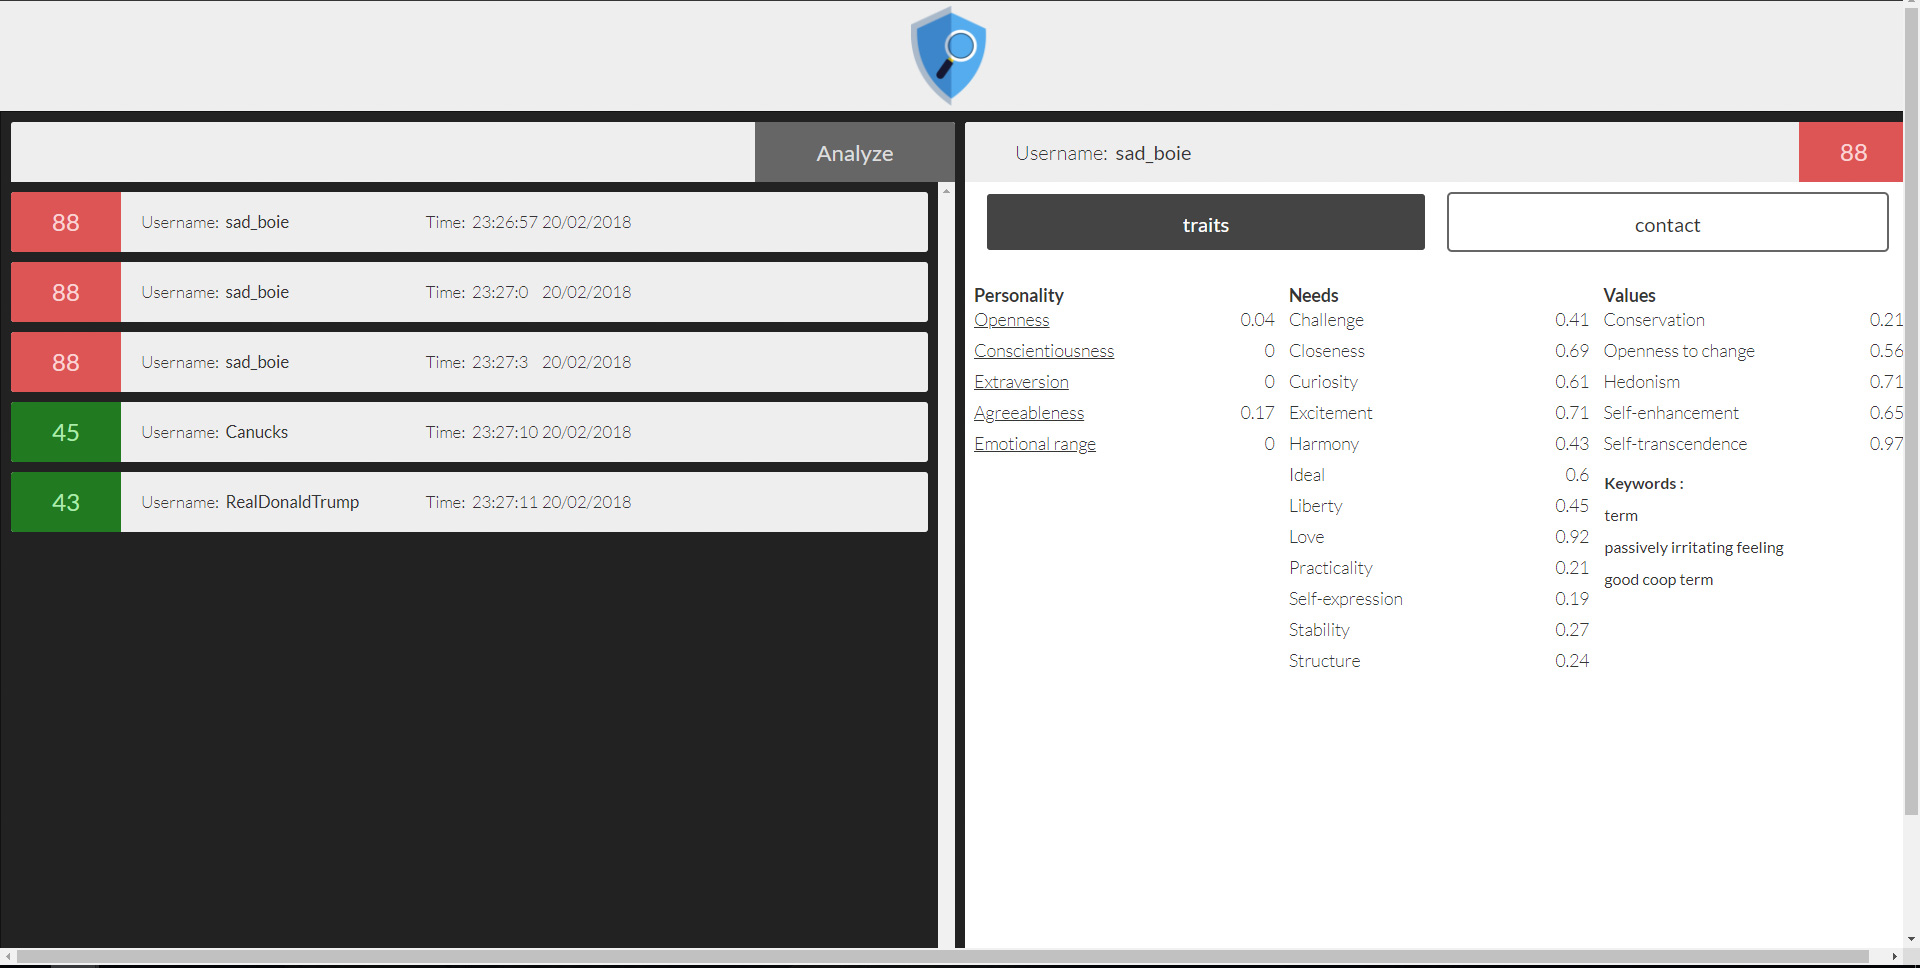
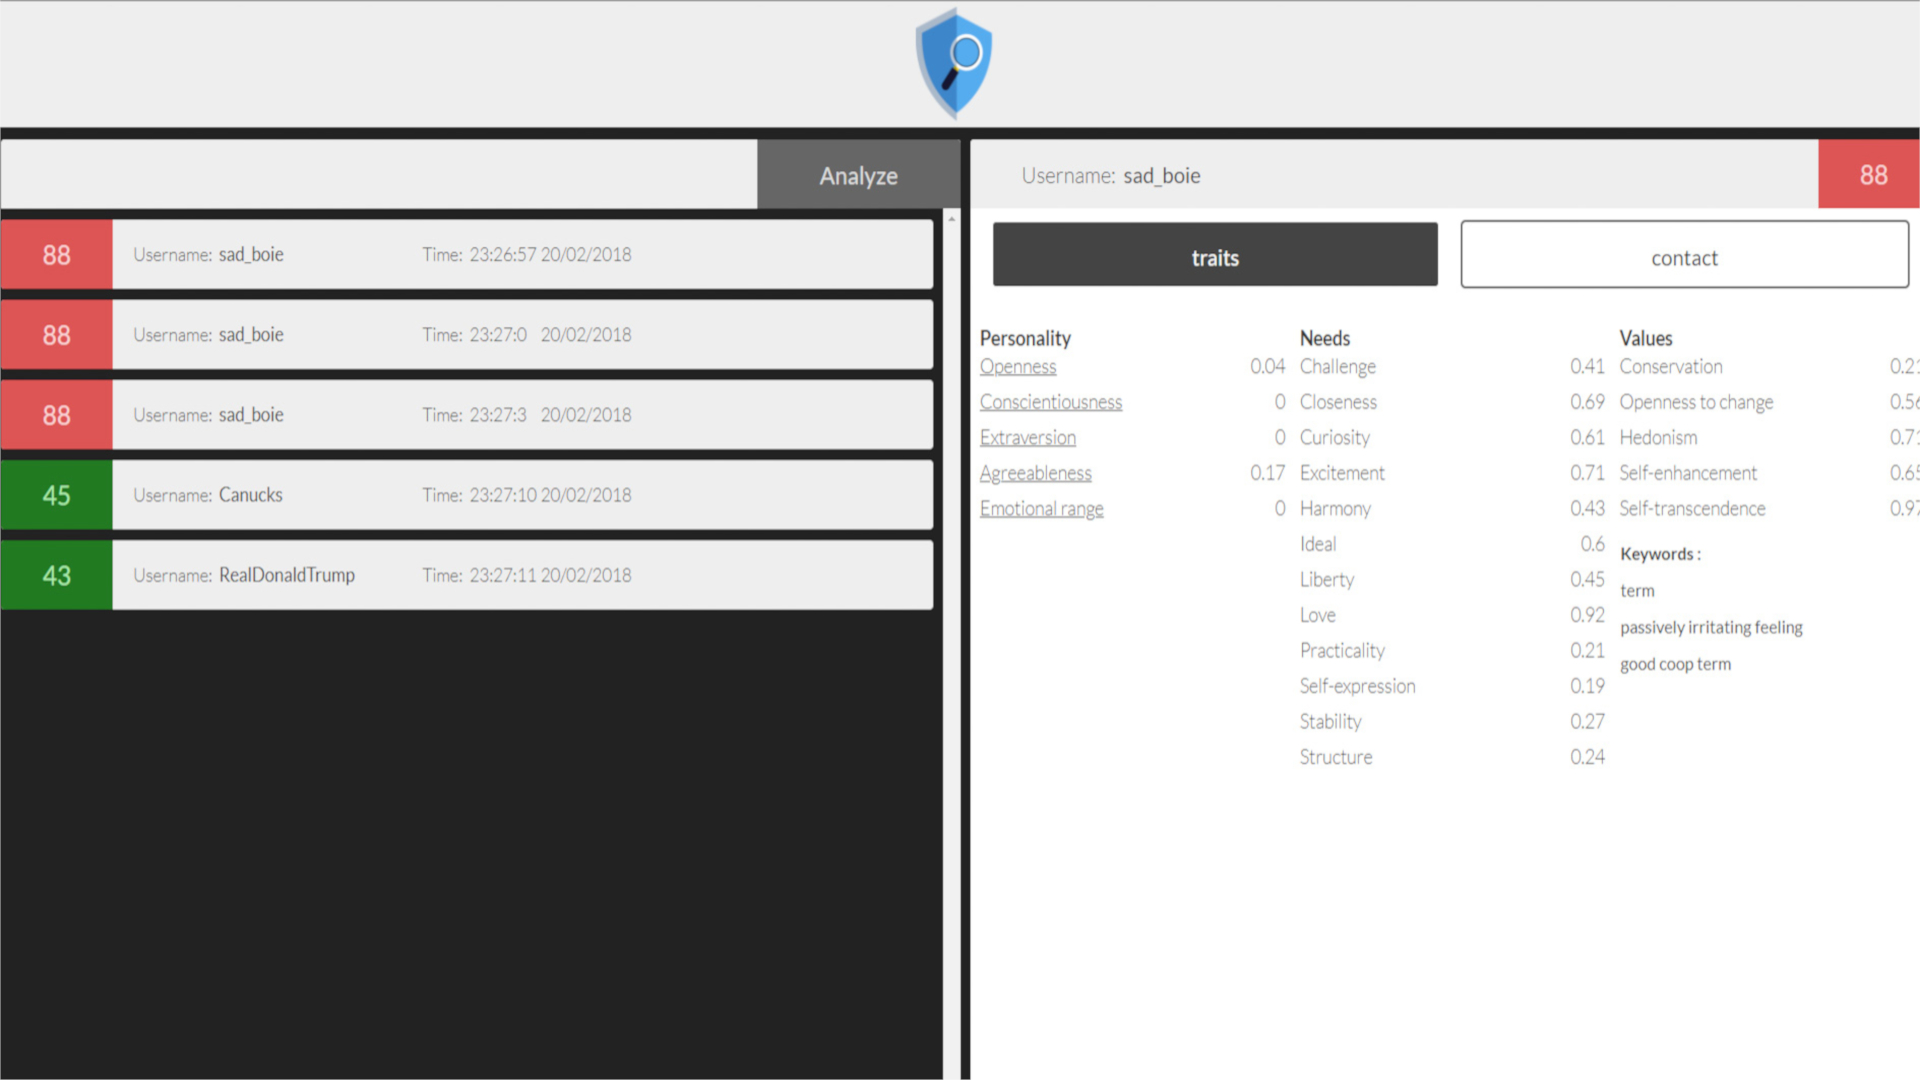
Basic project detail layout. Updated project images to be same ratio.

Changed region(s): [[0.0, 0.0, 1.0, 1.0]]

diff --git a/src/Components/ProjectsContainer.js b/src/Components/ProjectsContainer.js
@@ -1,21 +1,26 @@
 import React, { Component } from 'react';
-import ProjectItem from './ProjectItem'
-import {Grid,Row, Col, Clearfix, FormGroup, FormControl, ControlLabel, HelpBlock} from 'react-bootstrap'; //Everything is going to want to use grids
-import "./ProjectContainer.css"
+import ProjectItem from './ProjectItem';
+import ProjectDisplay from './ProjectDisplay';
+import {Grid, Row, Col, Clearfix, FormGroup, FormControl, ControlLabel, HelpBlock} from 'react-bootstrap'; //Everything is going to want to use grids
+import "./ProjectContainer.css";
+
 //Wireframe 1: https://wireframe.cc/6Buzm0
 
+//Has the elements for all things project-related, even the display
 export default class ProjectsContainer extends Component {
     constructor(props, context) {
         super(props, context);
         this.handleSearchChange = this.handleSearchChange.bind(this);
         this.onClickProject = this.onClickProject.bind(this);
+
         //this.updateSelectedProjects = this.updateSelectedProjects.bind(this);
     
         this.state = {
           searchText: '',
           showSearchWarning: 'False',
           projects: props.projects,
-          selectedProjects: props.projects
+          selectedProjects: props.projects,
+          displayProject: -1 //Reference project by ID instead of making a copy of the project object
         };
     } 
 
@@ -39,14 +44,14 @@ export default class ProjectsContainer extends Component {
         }
     }
 
-    updateSelectedProjects(newSearchText){
+    getUpdatedSelection(newSearchText){
         //Loop through the projects list and select the ones matching the searchText
         var newSelectedProjects = [];
         for (var i = 0, len = this.state.projects.length; i < len; i++) { 
-            console.log("checking " + this.state.projects[i].title); 
+            // console.log("checking " + this.state.projects[i].title); 
             //Check the title
             if (this.state.projects[i].title.toLowerCase().startsWith(newSearchText)){
-                console.log("Matching " + this.state.projects[i].title);
+                // console.log("Matching " + this.state.projects[i].title);
                 newSelectedProjects.push(this.state.projects[i]);
                 continue;
             }
@@ -58,7 +63,6 @@ export default class ProjectsContainer extends Component {
         }
 
         //Update
-        console.log("New Selected Projects: ", newSelectedProjects);
         return newSelectedProjects;
     }
 
@@ -67,9 +71,8 @@ export default class ProjectsContainer extends Component {
 
         if (newSearchText.length > 0){
             //Pass it so it's faster than waiting for updated state value
-            var newSelectedProjects = this.updateSelectedProjects(newSearchText);
-            
-            this.setState({selectedProjects: newSelectedProjects, searchText: newSearchText }, () => console.log(this.state));
+            var newSelectedProjects = this.getUpdatedSelection(newSearchText);
+            this.setState({selectedProjects: newSelectedProjects, searchText: newSearchText });
         }
         else {
             //Reset back to showing all
@@ -77,66 +80,64 @@ export default class ProjectsContainer extends Component {
         }
     }
 
-    onClickProject(proj){
-        console.log(proj);
+    onClickProject(rowID){
+        this.setState({displayProject: rowID});
+    }
+
+    onClickReturn(){
+        this.setState({displayProject: -1});
     }
 
     onSubmitSearch(e){
         e.preventDefault();
     }
     
-    // id:1,
-    // tags: [ "hackathon" , "social-good" , "website" , "team" ],
-    // languages_used: [ "C#" ],
-    // tools_used: [ "Unity", "IBM-Watson" ],
-    // date: "20170100", //YYYYMMDD. Split and convert manually for display, store like this for easy sorting
-    // title: 'bridgED',
-    // project_description: 'Real-time image analysis and language translation, combined with AR, to allow labelling of objects around the user.',
-    // work_description: '',
-    // learn_description: '',
-    // images: [ "test.png" , "test2.png" ],
-    // link_git:"",
-    // link_generic:"https://devpost.com/software/what-s-it"
-    
     render (){
-        const projectObjects = this.state.selectedProjects.map( (proj) => {
-            return <ProjectItem project={proj} onClickProject={this.onClickProject} />
-        });
+        //Either display a selected project, or display the nav section to allow one to be chosen
+        if (this.state.displayProject != '-1'){
+            return(
+                <ProjectDisplay project={this.state.selectedProjects[this.state.displayProject]} onClickProject={this.onClickProject}/>
+            )
+        }
+        else {
+            var count = -1;
+            const projectObjects = this.state.selectedProjects.map( (proj) => {
+                count = count + 1;
+                return <ProjectItem project={proj} onClickProject={this.onClickProject} rowID={count}/>
+            });
 
-        return(
-           <div>
-            <Grid>
-            <Row className="show-grid">
-                <Col xs={12} md={12}>
-                <form onSubmit={this.onSubmitSearch}>
-                    <FormGroup
-                        controlId="formBasicText"
-                        validationState={this.getValidationState()}
-                    >
-                    <FormControl
-                        type="text"
-                        value={this.state.searchText}
-                        placeholder="Filter projects via title, tags, language, etc"
-                        onChange={this.handleSearchChange}
-                        onSubmit={(e) => {
-                            /**
-                            * Prevent submit from reloading the page
-                            */
-                            e.preventDefault();
-                            e.stopPropagation();
-                        }}
-                    />
-                    <FormControl.Feedback />
-                    <HelpBlock>{ this.state.showSearchWarning == 'True' ? 'No projects match with your query.' : ''} </HelpBlock>
+            return (
+                <Grid>
+                <Row>
+                    <Col xs={12} md={12}>
+                    <form onSubmit={this.onSubmitSearch}>
+                    <FormGroup controlId="formBasicText" validationState={this.getValidationState()}>
+                        <FormControl
+                            type="text"
+                            value={this.state.searchText}
+                            placeholder="Filter projects via title, tags, language, etc"
+                            onChange={this.handleSearchChange}
+                            onSubmit={(e) => {
+                                /**
+                                * Prevent submit from reloading the page
+                                */
+                                e.preventDefault();
+                                e.stopPropagation();
+                            }}
+                        />
+                        <FormControl.Feedback />
+                        <HelpBlock>{ this.state.showSearchWarning == 'True' ? 'No projects match with your query.' : ''} </HelpBlock>
                     </FormGroup>
-                </form>
-                </Col>
-                <Col xs={12} md={12}>
-                    {projectObjects}
-                </Col>
-            </Row>
-            </Grid>
-           </div> 
-        );
+                    </form>
+                    </Col>
+                </Row>
+                <Row>
+                    <Col xs={12} md={12} className="projectWindow">
+                        {projectObjects}
+                    </Col>
+                </Row>
+                </Grid>
+            )
+        }
     }
 }

diff --git a/src/Components/ProjectDisplay.js b/src/Components/ProjectDisplay.js
@@ -1,0 +1,67 @@
+import React, { Component } from 'react';
+import {Grid,Row,Col,Button} from 'react-bootstrap'; //Everything is going to want to use grids
+
+
+export default function ProjectDisplay(props) {
+    function handleClick(e) { 
+        //Exit this view
+        props.onClickProject(-1);
+    }
+
+    // id:1,
+    // tags: [ "hackathon" , "social-good" , "website" , "team" ],
+    // languages_used: [ "C#" ],
+    // tools_used: [ "Unity", "IBM-Watson" ],
+    // date: "20170100", //YYYYMMDD. Split and convert manually for display, store like this for easy sorting
+    // title: 'bridgED',
+    // project_description: 'Real-time image analysis and language translation, combined with AR, to allow labelling of objects around the user.',
+    // work_description: '',
+    // learn_description: '',
+    // images: [ "test.png" , "test2.png" ],
+    // link_git:"",
+    // link_generic:"https://devpost.com/software/what-s-it"
+    
+    console.log(props);
+
+    return(
+        <Grid className='displayBox'> 
+            <Row>
+                <Col xs={12}>
+                  <h2>{props.project.title}</h2>
+                  <Button className='exitButton' onClick={handleClick} bsStyle='primary'>X</Button>
+                </Col>
+            </Row>
+            <Row>
+                <Col xs={12} md={4}>
+                   <img src={require("../Project_Images/" + props.project.images[0])}/>
+                </Col>
+            </Row>
+            <Row>
+                <Col xs={12}>
+                   <p><b>Languages I Used:</b> {props.project.languages_used.join(", ")}</p>
+                </Col>
+                <Col xs={12}>
+                   <p><b>Tools I Used:</b> {props.project.tools_used.join(", ")}</p>
+                </Col>
+            </Row>
+            <Row>
+                <Col xs={12}>
+                    <h3>What it is</h3>
+                    <p>{props.project.project_description}</p>
+                </Col>
+            </Row>
+            <Row>
+                <Col xs={12}>
+                    <h3>What I did</h3>
+                    <p>{props.project.work_description}</p>
+                </Col>
+            </Row>
+            <Row>
+                <Col xs={12}>
+                    <h3>What I learned</h3>
+                    <p>{props.project.learn_description}</p>
+                </Col>
+            </Row>
+        </Grid>
+    )
+}

diff --git a/src/Components/ProjectContainer.css b/src/Components/ProjectContainer.css
@@ -3,7 +3,35 @@
     color: #7cb4eb;
 }
 
-/* Selectable Item Box _____________________________________________________ */
+
+/* Project Container/Box Layouts _____________________________________________________ */
+.projectWindow{
+    height: 78vh;
+    overflow-y: scroll;
+    overflow-x: hidden
+}
+
+/* Project Display Layout _____________________________________________________ */
+.displayBox{
+    border: 2px solid #feffff;
+}
+
+.displayBox img {
+    width:100%;
+    margin-bottom:10px;
+}
+
+.exitButton{
+    top: 0;
+    right: 0;
+    width: 40px;
+    height: 40px;
+    position: absolute;
+}
+
+
+
+/* Project Selection Item Layout _____________________________________________________ */
 .itemBox{
     display: flex;
     overflow: hidden;

diff --git a/src/Components/ProjectItem.js b/src/Components/ProjectItem.js
@@ -1,10 +1,10 @@
 import React, { Component } from 'react';
-import {Grid,Row, Col, Clearfix, FormGroup, FormControl, ControlLabel, HelpBlock} from 'react-bootstrap'; //Everything is going to want to use grids
+import {Grid,Row,Col} from 'react-bootstrap'; //Everything is going to want to use grids
 
 
 export default function ProjectItem(props) {
     function handleClick(e) { 
-        props.onClickProject(props.project)
+        props.onClickProject(props.rowID)
     }
 
     return(

diff --git a/src/index.css b/src/index.css
@@ -9,17 +9,17 @@ body {
 h1{
   color: #103c68;
   font-size: 48px;
-  font-family: 'BloggerBoldItalic';
+  font-family: 'BloggerSansBoldItalic';
 }
 
 h2{
   font-size: 32px;
-  font-family: 'BloggerBold';
+  font-family: 'BloggerSansBold';
 }
 
 h3 {
   font-size: 24px;
-  font-family: 'BloggerBoldMedium';
+  font-family: 'BloggerSansMedium';
 }
 
 p {
